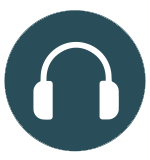
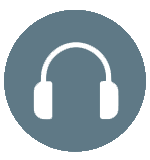
ui changes

diff --git a/src/app/module/upcoming-courses/upcoming-courses.component.html b/src/app/module/upcoming-courses/upcoming-courses.component.html
@@ -134,6 +134,8 @@
             </div>
 
             <div class="clearfix"></div>
+            <p class="text-center text-ty text-blue"> </p> <p class="text-center text-ty text-blue">        
+            </p>
             <div align="center" style="margin-top: 80px;"> <div class="btn1 btn-secondary rounded-pill d-inline "> Course Description </div></div>
             <p class="text-center text-ty text-blue"> </p> <p class="text-center text-ty text-blue">
               
@@ -614,15 +616,20 @@
                 <div class="row guru-popup">
                      
                   
-                  <div class="col-md-12 text-center index-level2">  
-                    <audio controls src="https://traditionalyoga-app-staging.s3.ap-south-1.amazonaws.com/Testimonial_videos140423/17042023/Suitability.mp4"  >
-                    </audio></div>
+                  <div class="col-md-9 center slide-border12 guru-popup-video">  
+                    <video width="100%" id="video" class="videoheight"  controlsList="nodownload" oncontextmenu="return false;"
+              poster="">
+              <source
+                src="https://traditionalyoga-app-staging.s3.ap-south-1.amazonaws.com/Guruji_videos_10052023/Suitability+%26+Course+Ethos.mp4"
+                type="video/mp4" frameborder="0" canplay
+                allow="accelerometer; clipboard-write; encrypted-media; gyroscope;" allowfullscreen>
+            </video></div>
                         
                   <div class="butter-fly-popup-about animate__animated animate__fadeInTopLeft animate__delay-3s">
                       <img src="assets/img/Dragonfly-gif.gif" alt="" class="img-fluid dragon-fly" />
                     </div>
                   
-                    <div class="audio-flower-popup">
+                    <div class="audio-flower-popup1">
                       <img src="assets/img/about-right-content-flower.png" alt="" class="img-fluid">
                     </div>
 
@@ -702,16 +709,20 @@
                 
                 <div class="row guru-popup">
                      
-                  <div class="col-md-12 text-center index-level2">  
-                  <audio controls src="https://traditionalyoga-app-staging.s3.ap-south-1.amazonaws.com/Testimonial_videos140423/17042023/Guru-Shishya+Parampara.mp4"  >
-                  
-                  </audio></div>
+                  <div class="col-md-9 center slide-border12 guru-popup-video">  
+                    <video width="100%" id="video" class="videoheight"  controlsList="nodownload" oncontextmenu="return false;"
+              poster="">
+              <source
+                src="https://traditionalyoga-app-staging.s3.ap-south-1.amazonaws.com/Guruji_videos_10052023/Guru-Shishya+Parampara.mp4"
+                type="video/mp4" frameborder="0" canplay
+                allow="accelerometer; clipboard-write; encrypted-media; gyroscope;" allowfullscreen>
+            </video></div>
                         
                   <div class="butter-fly-popup-about animate__animated animate__fadeInTopLeft animate__delay-3s">
                       <img src="assets/img/Dragonfly-gif.gif" alt="" class="img-fluid dragon-fly" />
                     </div>
                   
-                    <div class="audio-flower-popup">
+                    <div class="audio-flower-popup1">
                       <img src="assets/img/about-right-content-flower.png" alt="" class="img-fluid">
                     </div>
                   </div>   
@@ -798,15 +809,21 @@
                 
                 <div class="row guru-popup">
                      
-                  <div class="col-md-12 text-center index-level2">  
-                  <audio controls src="https://traditionalyoga-app-staging.s3.ap-south-1.amazonaws.com/Testimonial_videos140423/17042023/Expectations.mp4" >
-                  </audio></div>
+                       
+                  <div class="col-md-9 center slide-border12 guru-popup-video">  
+                    <video width="100%" id="video" class="videoheight"  controlsList="nodownload" oncontextmenu="return false;"
+              poster="">
+              <source
+                src="https://traditionalyoga-app-staging.s3.ap-south-1.amazonaws.com/Guruji_videos_10052023/Expectations.mp4"
+                type="video/mp4" frameborder="0" canplay
+                allow="accelerometer; clipboard-write; encrypted-media; gyroscope;" allowfullscreen>
+            </video></div>
                         
                   <div class="butter-fly-popup-about animate__animated animate__fadeInTopLeft animate__delay-3s">
                       <img src="assets/img/Dragonfly-gif.gif" alt="" class="img-fluid dragon-fly" />
                     </div>
                   
-                    <div class="audio-flower-popup">
+                    <div class="audio-flower-popup1">
                       <img src="assets/img/about-right-content-flower.png" alt="" class="img-fluid">
                     </div>
                   </div>   
@@ -868,19 +885,20 @@
                 
                 <div class="row guru-popup">
                      
-                  <div class="col-md-12 center" style="padding:5%">  
-                    <video   width="100%" controls controlsList="nodownload" oncontextmenu="return false;" poster= "assets/img/video.png">
-                      <source src= "https://traditionalyoga-app-staging.s3.ap-south-1.amazonaws.com/Testimonial_videos140423/17042023/Traditional_yoga_v11.mp4"
-                              type="video/mp4"  frameborder="0" canplay
-                              allow="accelerometer; clipboard-write; encrypted-media; gyroscope;"
-                              allowfullscreen >
+                  <div class="col-md-9 center slide-border12 guru-popup-video">  
+                    <video width="100%" id="video" class="videoheight" controlsList="nodownload" oncontextmenu="return false;"
+                    poster="assets/img/video.png">
+                    <source
+                      src="https://traditionalyoga-app-staging.s3.ap-south-1.amazonaws.com/Testimonial_videos140423/17042023/Traditional_yoga_v11.mp4"
+                      type="video/mp4" frameborder="0" canplay
+                      allow="accelerometer; clipboard-write; encrypted-media; gyroscope;" allowfullscreen>
                   </video></div>
                         
                   <div class="butter-fly-popup-about animate__animated animate__fadeInTopLeft animate__delay-3s">
                       <img src="assets/img/Dragonfly-gif.gif" alt="" class="img-fluid dragon-fly" />
                     </div>
                   
-                    <div class="audio-flower-popup">
+                    <div class="audio-flower-popup1">
                       <img src="assets/img/about-right-content-flower.png" alt="" class="img-fluid">
                     </div>
                   </div>   

diff --git a/src/app/module/our-offerings/our-offerings.component.html b/src/app/module/our-offerings/our-offerings.component.html
@@ -518,10 +518,7 @@
           </div> -->
           <div class="pt-5" align="right">
             <h1 class="pt-5 text-center"> Free Online Classes</h1>
-            <div class="col-md-12 center">  
-              <audio controls src="https://traditionalyoga-app-staging.s3.ap-south-1.amazonaws.com/Testimonial_videos140423/17042023/Free+Online+Courses.mp4" style="width: 300px; height:120px; float: right; padding-bottom: 55px; padding-right:45px;" >
-              </audio></div>
-            <div class="offerings-popup">
+                        <div class="offerings-popup">
               <div class="anikumar-img-popup">
                                 
                 <div class="butter-fly-popup animate__animated animate__fadeInTopLeft animate__delay-3s">
@@ -539,7 +536,14 @@
                 
             </div>
 
-
+            <div class="col-md-9 center slide-border12 guru-popup-video">  
+              <video width="100%" id="video" class="videoheight"  controlsList="nodownload" oncontextmenu="return false;"
+        poster="">
+        <source
+          src="https://traditionalyoga-app-staging.s3.ap-south-1.amazonaws.com/Guruji_videos_10052023/Free+Online+Courses.mp4"
+          type="video/mp4" frameborder="0" canplay
+          allow="accelerometer; clipboard-write; encrypted-media; gyroscope;" allowfullscreen>
+      </video></div>
             <div class="row">
               <div class="about-popup-content pt-5">
               <p>The continuous series of online courses in Yoga and Meditation offered by Traditional Yoga form a comprehensive and ongoing <b>Online Yogi Training Program for students and teachers.</b>
@@ -658,8 +662,7 @@
           <div class="pt-5" align="right">
           
           <div class="col-md-12">  <h1 class="pt-5 text-center"> Meditation Retreats </h1>
-            <audio controls src="https://traditionalyoga-app-staging.s3.ap-south-1.amazonaws.com/Testimonial_videos140423/17042023/Meditation+Retreats.mp4" style="width: 300px; height:120px; float: right; padding-bottom: 55px; padding-right:45px;" >
-            </audio></div><div class="offerings-popup">
+           </div><div class="offerings-popup">
             <div class="anikumar-img-popup">
                               
               <div class="butter-fly-popup animate__animated animate__fadeInTopLeft animate__delay-3s">
@@ -674,9 +677,17 @@
           </div>
 
         </div>
-
+        <div class="col-md-9 center slide-border12 guru-popup-video">  
+          <video width="100%" id="video" class="videoheight"  controlsList="nodownload" oncontextmenu="return false;"
+    poster="">
+    <source
+      src="https://traditionalyoga-app-staging.s3.ap-south-1.amazonaws.com/Guruji_videos_10052023/Meditation+Retreats.mp4"
+      type="video/mp4" frameborder="0" canplay
+      allow="accelerometer; clipboard-write; encrypted-media; gyroscope;" allowfullscreen>
+  </video></div>
             <div class="row">
               <div class="about-popup-content">
+                
               <p>Traditional Yoga currently expects to run two to three meditation retreats per year. Students’ performance on the online courses are a pre-requisite for successful application and selection to attend an in-person retreat.</p>
 
 <p>Meditation Retreats are suitable for those who are willing to seriously commit to working deeply with Dr Kumar in a live setting, demonstrating the highest level of discipline, dedication and devotion to the teacher, the lineage of Yoga and the teachings. Previous experience is not a requirement. </p>

diff --git a/src/app/module/about-us/about-us.component.html b/src/app/module/about-us/about-us.component.html
@@ -381,13 +381,15 @@
         <div class="modal-body about">
 
          <div> <h1 class="text-center popup-name-guruji" style="font-size:40px"> <b>Dr A L V Kumar</b></h1> </div>
-          <div data-bs-toggle="modal" data-bs-target="#exampleModalgurujivideo" class="btn-popup1 popup-videoicon"> <span>  <img src="assets/img/video-icon.png" alt="" width="50px" class="img-fluid" /></span></div>
-          <div class="col-md-12 center"> 
+        <div class="col-md-12 center"> 
             
            </div>
           <div class="row">
             <div class="col-md-4">
-              <div class="about-circle-popup">
+             
+              <div class="about-circle-popup">        
+                <div class="popup-circle12">
+            
                   <div class="about-quote-popup">
                       <p style="color:#526a77;">“Yoga is many limbed and is not to 
                         be confused with any form of 
@@ -398,6 +400,7 @@
                         swift and effective progress”</p>
     
                       <p style="color:#526a77;"> Dr A L V Kumar </p>
+                  </div>
                   </div>
               </div>
             </div>
@@ -424,7 +427,8 @@
                 
             </div>
 
-
+            <div data-bs-toggle="modal" data-bs-target="#exampleModalgurujivideo" class="btn-popup1 popup-videoicon"> <span>  <img src="assets/img/video-icon.png" alt="" width="50px" class="img-fluid" /></span></div>
+          
             <div class="row">
               <div class="about-popup-content">
               <p style="color:#232323;">  Dr. Kumar is widely recognized as an inspirational Yogi, trainer of yoga teachers and an award-winning scientist. He began his yoga journey at the age of 11 years and attended more than 87 traditional ashrams, learning directly under the expert guidance of great teachers such as Satyananda Saraswathi, Krishnamacharya and all the seven students of Sivananda, as well as in many Himalayan traditions. </p>
@@ -488,7 +492,7 @@
           <div class="row guru-popup center">
                
             <div class="col-md-9 center slide-border12 guru-popup-video">  
-              <video width="100%" id="video" class="videoheight"  controlsList="nodownload" oncontextmenu="return false;"
+              <video width="100%" id="video" class="videoheight" controlsList="nodownload" oncontextmenu="return false;"
               poster="assets/img/video.png">
               <source
                 src="https://traditionalyoga-app-staging.s3.ap-south-1.amazonaws.com/Testimonial_videos140423/17042023/Traditional_yoga_v11.mp4"
@@ -502,7 +506,7 @@
                 <img src="assets/img/Dragonfly-gif.gif" alt="" class="img-fluid dragon-fly" />
               </div>
             
-              <div class="audio-flower-popup">
+              <div class="audio-flower-popup1">
                 <img src="assets/img/about-right-content-flower.png" alt="" class="img-fluid">
               </div>
             </div>   

diff --git a/src/assets/css/style.css b/src/assets/css/style.css
@@ -525,7 +525,7 @@ height: 40px;
   font-size: 18px;
   font-weight: bold;
   letter-spacing: 1px;
-  background: #294e59;
+  background: #5f7986;
   color:#fff;
   padding: 15px 30px;
 }
@@ -566,7 +566,13 @@ height: 40px;
   background: transparent;
   color: #fff;
 }
-
+.audio-flower-popup1 {
+  position: absolute;
+  right: -64px;
+  z-index: +9;
+  top: 20%;
+  text-align: right;
+}
 @media (max-width: 991px) {
   #hero .hero-img {
     text-align: center;
@@ -807,6 +813,16 @@ position: relative;
     border: 1px solid #fff;
     position: relative;
     top: -4%;
+}
+.popup-circle12{
+  background-color: transparent;
+    border-radius: 50%;
+    width: 500px;
+    height: 500px;
+    /* top: -50px; */
+    border: 1px solid #5f7986;
+    position: relative;
+    top: -1%;
 }
 .mentor-circle {
   background-color: transparent;
@@ -1765,7 +1781,7 @@ left: -1px;
     right: -70px;
     /* float: right; */
     z-index: +99;
-    top: 17%;
+    top: 16.5%;
     text-align: right;
 }
 

diff --git a/src/index.html b/src/index.html
@@ -43,7 +43,7 @@
       }
   
       .slick-slide {
-        margin: 0px 20px;
+        margin: 0px 30px;
       }
   
       .slick-slide img {
@@ -68,6 +68,9 @@
       .slick-current {
         opacity: 1;
       }
+      .slick-next {
+    right: -7px !important;
+}
     </style>
   
 
